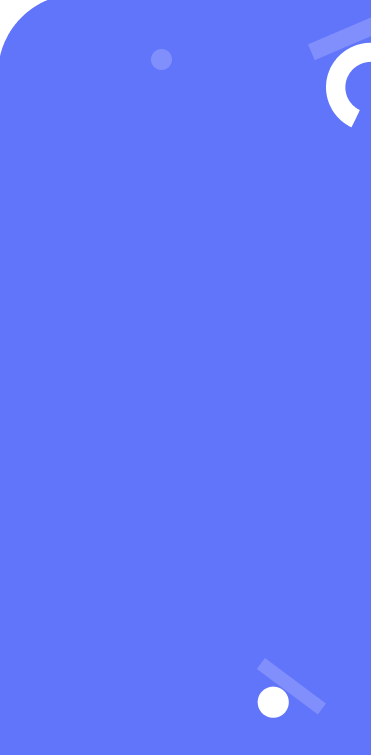
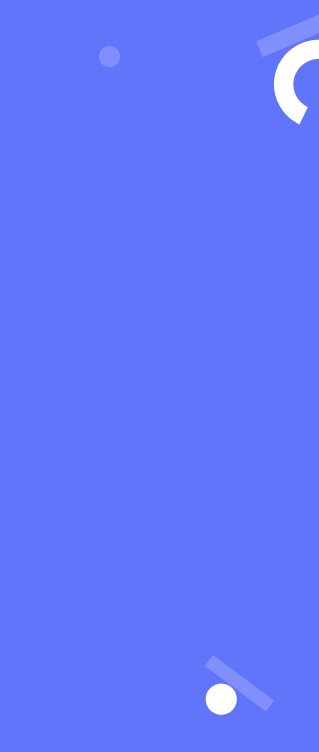
Wrap contact-form elements in ul/li, update form action with form-spree-url, update contact bg image, minor css changes

diff --git a/index.html b/index.html
@@ -326,51 +326,65 @@
     </section>
 
     <section id="contact-form-container">
-      <h2 id="contact-form-header">Contact me</h2>
-      <p id="contact-form-text">
-        If you have an application you are interested in developing, a feature
-        that you need built or a project that needs coding. I’d love to help
-        with it
-      </p>
-      <form id="contact-form" method="post" action="/">
-        <ul id="contact-form-ul">
-          <li>
-            <label>
-              <input
-                name="name"
-                id="name"
-                type="text"
-                placeholder="Enter your name"
-                maxlength="30"
-                required
-            /></label>
-          </li>
-          <li>
-            <label>
-              <input
-                name="email"
-                id="email"
-                type="email"
-                placeholder="Enter your email"
-                required
-            /></label>
-          </li>
-          <li>
-            <label>
-              <textarea
-                name="message"
-                id="message"
-                placeholder="Write your message here"
-                maxlength="500"
-                required
-              ></textarea>
-            </label>
-          </li>
-          <li>
-            <button id="btn-contact-form" type="submit">Get in touch</button>
-          </li>
-        </ul>
-      </form>
+      <ul id="contact-form-container-ul">
+        <li>
+          <h2 id="contact-form-header">Contact me</h2>
+        </li>
+        <li>
+          <p id="contact-form-text">
+            If you have an application you are interested in developing, a
+            feature that you need built or a project that needs coding. I’d love
+            to help with it
+          </p>
+        </li>
+        <li>
+          <form
+            id="contact-form"
+            method="post"
+            action="https://formspree.io/f/mzbwngvr"
+          >
+            <ul id="contact-form-ul">
+              <li>
+                <label>
+                  <input
+                    name="name"
+                    id="name"
+                    type="text"
+                    placeholder="Enter your name"
+                    maxlength="30"
+                    required
+                /></label>
+              </li>
+              <li>
+                <label>
+                  <input
+                    name="email"
+                    id="email"
+                    type="email"
+                    placeholder="Enter your email"
+                    required
+                /></label>
+              </li>
+              <li>
+                <label>
+                  <textarea
+                    name="message"
+                    id="message"
+                    placeholder="Write your message here"
+                    maxlength="500"
+                    required
+                  ></textarea>
+                </label>
+              </li>
+              <li>
+                <button id="btn-contact-form" type="submit">
+                  Get in touch
+                </button>
+              </li>
+            </ul>
+          </form>
+        </li>
+      </ul>
     </section>
   </body>
 </html>

diff --git a/styles.css b/styles.css
@@ -6,6 +6,11 @@ body {
   background: #f7f7f9;
 }
 
+/* 
+===========================
+HEADER SECTION
+*/
+
 header {
   position: fixed;
   top: 0;
@@ -14,6 +19,7 @@ header {
   width: 100%;
   background: #fff;
   box-shadow: 0 3px 7px rgba(0, 0, 0, 0.1);
+  z-index: 9999;
 }
 
 #toolbar {
@@ -44,6 +50,11 @@ header {
   background-color: #6070ff;
   margin: 6px 0;
 }
+
+/* 
+===========================
+HEADLINE SECTION
+*/
 
 #headline-container {
   box-sizing: border-box;
@@ -116,6 +127,11 @@ header {
   margin-right: 12px;
   font-size: 24px;
 }
+
+/* 
+===========================
+WORKS SECTION
+*/
 
 #works {
   display: grid;
@@ -229,6 +245,18 @@ header {
   background: #6070ff;
 }
 
+.btn:active {
+  background: #2230d2;
+  color: #fff;
+  box-shadow: 0px 8px 16px rgba(64, 83, 252, 0.24);
+  border: 1px solid #fff;
+}
+
+/* 
+===========================
+ABOUT SECTION
+*/
+
 #about-container {
   box-sizing: border-box;
   margin: 0;
@@ -248,7 +276,6 @@ header {
   flex-direction: column;
   justify-content: flex-start;
   row-gap: 12px;
-  margin-bottom: 100px;
 }
 
 #categories-container {
@@ -320,7 +347,21 @@ header {
   padding-right: 16px;
 }
 
+/* 
+===========================
+CONTACT FORM SECTION
+*/
+
 #contact-form-container {
+  margin: 0;
+  padding: 0;
+  background: #fff;
+}
+
+#contact-form-container-ul {
+  list-style: none;
+  margin: 0;
+  padding: 80px 24px;
   box-sizing: border-box;
   min-height: 779px;
   height: 100%;
@@ -329,13 +370,15 @@ header {
   background-image: url('images/background-contact-form.png');
   background-repeat: no-repeat;
   background-size: cover;
-  border-radius: 150px 0 0 0;
-  padding: 200px 24px;
+  border-radius: 100px 0 0 0;
   display: flex;
   flex-direction: column;
+  justify-content: flex-start;
+  gap: 28px;
 }
 
 #contact-form-header {
+  margin: 0;
   height: 56px;
   width: 327px;
   font-weight: 700;
@@ -346,12 +389,17 @@ header {
 }
 
 #contact-form-text {
+  margin: 0;
   width: 327px;
   font-size: 20px;
   line-height: 28px;
   text-align: center;
   color: #ebebff;
   overflow-wrap: break-word;
+}
+
+#contact-form {
+  width: 327px;
 }
 
 #contact-form-ul {
@@ -376,7 +424,7 @@ input {
   padding: 15px 16px;
 }
 
-textarea {
+#message {
   height: 170px;
   box-sizing: border-box;
   width: 327px;
